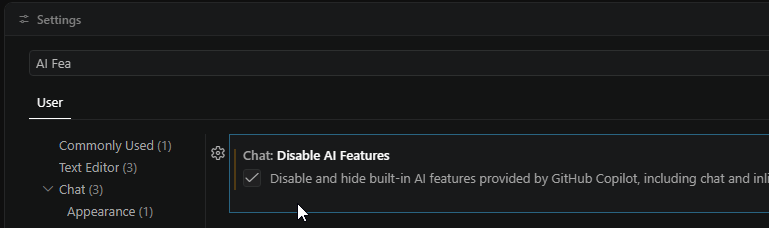
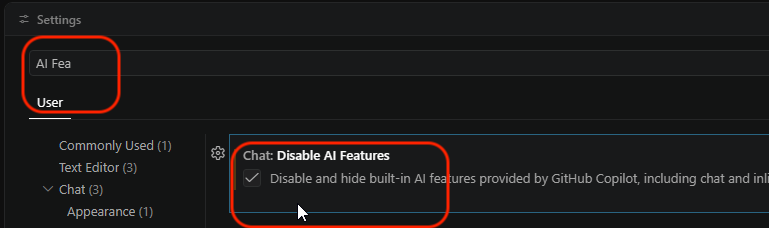
add R

diff --git a/docs/setup_vscode_r.md b/docs/setup_vscode_r.md
@@ -1,0 +1,77 @@
+# Working with R using VS Code
+
+This tutorial walks you through the setup of VS Code for working with R, eventually on a remote server.
+
+If you intend to work on a remote server, you have to perform these steps after opening the SSH connection within VS Code as explained [here](./setup_vscode.md#how-to-connect)
+
+## Installing the R extension
+
+One of the main advantages of VSCode is that it has a vast ecosystem of "extensions", that is, plugins allowing users to tailor the editor to their specific needs and usecases.
+
+- On the left, click on the "extensions" button...
+
+![](img/vscode_search_ssh.png){: width="70%"}
+
+- ... and search for "R" and install the "R" extension
+
+![](img/r_search_vscode_extension.png){: width="60%"}
+
+- If asked, "Trust" the publisher
+
+![](img/r_trust_publisher.png){: width="60%"}
+
+## Edit settings
+
+A couple edits in the settings will smooth your R workflow.
+
+- Open settings through the menu: File > Preferences > Settings
+
+![](img/vscode_find_settings.png){: width="70%"}
+
+- Search for "httpgd" and toggle the option "R > Plot: Use Httpgd"
+
+![](img/r_httpgd.png){: width="90%"}
+
+- If the server is a Mac and Radian (a better R console) is installed, search for "rterm" and edit the option "R > Rterm: Mac" with the following path: `/opt/homebrew/bin/radian`
+
+![](img/r_rterm_to_radian.png){: width="90%"}
+
+- Close the "Settings" window and you're good to go.
+
+## Basic usage
+
+- With VS code connected to your remote server, you can click on the files icon (1) to toggle the file explorer pane, click on "Open folder" (2) and select the default, your remote home folder (3).
+
+![](img/vscode_explore_remote.png){: width="100%"}
+
+- If asked, tell VS Code to trust this folder
+
+![](img/vscode_trust_folder.png){: width="60%"}
+
+- Let's create a folder named "some_R_project" by right-clicking inside the explorer pane
+
+![](img/vscode_create_folder.png){: width="60%"}
+
+- Right-click on the folder and create now a new file named "some_R_script.R", the ".R" at the end is important, it's what makes VS Code consider the file as an R script.
+
+![](img/r_create_new_file.png){: width="70%"}
+
+- Add some simple code to test printing in the console as well as plotting, for instance:
+
+```R
+print("Hello")
+
+x <- 1:10
+y <- x^2
+plot(x, y)
+```
+- Run the script by clicking the "Play" icon
+
+![](img/r_edit_run_script.png){: width="80%"}
+
+- *Voilà*, you should have the console printing "Hello" and a pane showing the plot. Click on the "R" icon on the left (see below) to toggle your "Workspace" with your variables and some other R features.
+
+![](img/r_bench.png){: width="100%"}
+
+
+There are many other options and features available, feel free to explore.

diff --git a/docs/setup_vscode.md b/docs/setup_vscode.md
@@ -18,13 +18,13 @@ You don't necessarily need VSCode to connect to a remote server via SSH, but it 
 
 - Search for "AI Features" and toggle the option "Disable and hide built-in AI features..."
 
-![](img/vscode_disable_ai.png){: width="80%"}
+![](img/vscode_disable_ai.png){: width="100%"}
 
 - Close the settings window, and you're good to go.
 
 ## Installing SSH extension
 
-One of the main advantage of VSCode is that it has a vast ecosystem of "extensions", that is, plugins allowing users to tailor the editor to their specific needs and usecases.
+One of the main advantages of VSCode is that it has a vast ecosystem of "extensions", that is, plugins allowing users to tailor the editor to their specific needs and usecases.
 
 - On the left, click on the "extensions" button...
 
@@ -67,7 +67,7 @@ Host SomeServerNickname
 - Save and close the file.
 
 
-## Connect to a remote server
+## Connect to a remote server {#how-to-connect}
 
 Now that you edited your SSH configuration you should be able to connect to the remote server.
 
@@ -105,13 +105,17 @@ That should be it, you're now connected to the server from VSCode. Let's see how
 
 ![](img/vscode_trust_folder.png){: width="60%"}
 
-- You can now browser your remote home folder from within VS Code, right-click offers common file operations, like creating a folder.
+- You can now browse your remote home folder from within VS Code, right-click offers common file operations, like creating a folder.
 
 ![](img/vscode_create_folder.png){: width="60%"}
 
 - You can drag-and-drop some file on your local machine to your remote server
 
 ![](img/vscode_drag_and_drop.png){: width="80%"}
+
+- You can always check if the current VS Code window is the one connected to the remote server by looking at the bottom-left corner:
+
+![](img/vscode_check_if_remote.png){: width="60%"}
 
 *Voilà*.
 
